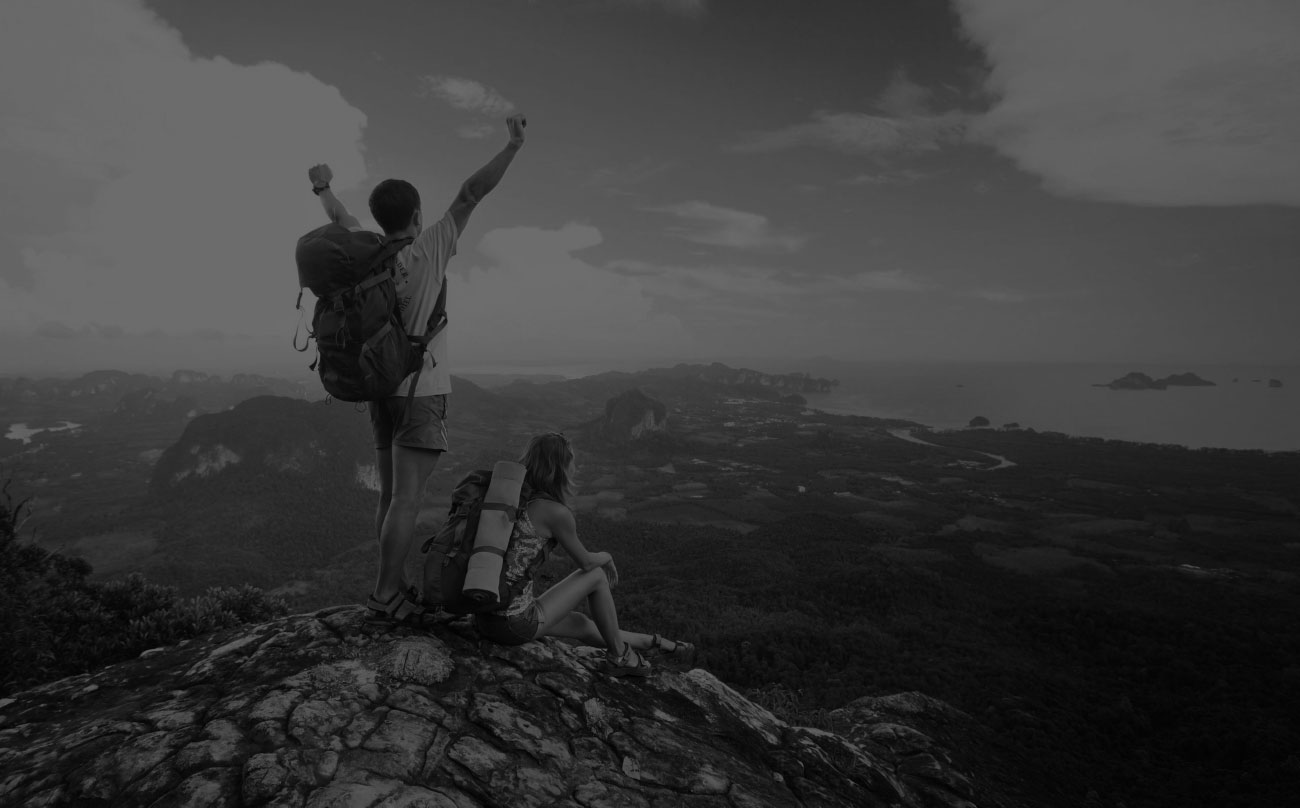
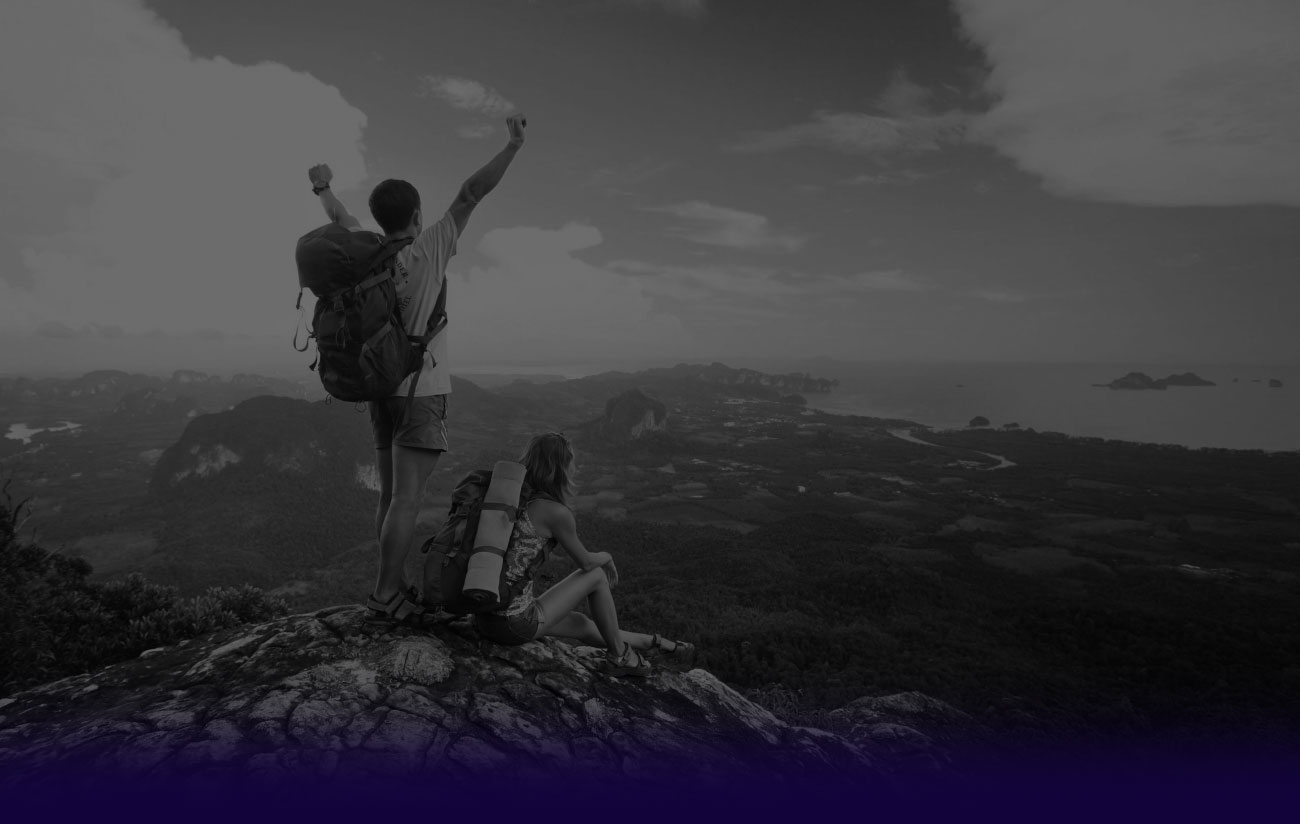
Ajustes
Campos llenos de texto.

diff --git a/frontend/css/styles.css b/frontend/css/styles.css
@@ -1,5 +1,5 @@
 /*!
- * Compliled at: 2015-08-02 07:16:24 -0500
+ * Compliled at: 2015-08-02 12:17:12 -0500
  */
 @import url("font-awesome.css");
 @import url("http://fonts.googleapis.com/css?family=Varela+Round");
@@ -31,17 +31,20 @@ strong { font-weight: 700; color: black; }
 header { padding: 20px 0; color: #00FFCC; }
 header.dark { background: #12043A; }
 header h1 { width: 250px; height: 75px; float: left; }
-header nav { float: right; }
+header nav { float: right; text-transform: uppercase; }
 header nav a { display: block; float: left; margin-left: 40px; line-height: 75px; }
 header nav a.active { color: white; }
 
-footer { background: #12043A; color: white; font-size: 0.8em; text-align: center; padding: 20px 0; margin-top: 60px; line-height: 1.3em; }
+button:focus { outline: none; }
+button:hover { color: white !important; cursor: pointer; }
+
+footer { background: #12043A; color: white; font-size: 0.8em; text-align: center; padding: 20px 0; margin-top: 60px; line-height: 1.3em; width: 100%; position: static; bottom: 0; }
 footer span:after { content: " / "; }
 footer span:last-of-type:after { content: " "; }
 
 .picture { background: url(img/bg-landing.jpg) top center no-repeat; background-size: 100%; }
 
-.picture-home { background: url(img/bg-home.jpg) top center no-repeat; background-size: cover; }
+.picture-home { background: #12043A url(img/bg-home.jpg) top center no-repeat; background-size: cover; }
 
 .container { max-width: 1000px; margin: 0 auto; }
 
@@ -84,13 +87,15 @@ h3 { text-align: center; font-size: 1em; padding: 40px 0 20px 0; }
 .item:hover { background: #00FFCC; }
 
 .add-card-screen, .add-founds-screen { min-height: 300px; }
+.add-card-screen .instructions, .add-founds-screen .instructions { overflow: hidden; *zoom: 1; }
+.add-card-screen .instructions h4, .add-founds-screen .instructions h4 { text-align: left; font-size: 1.3em; float: left; width: auto; }
+.add-card-screen .instructions select, .add-founds-screen .instructions select { -moz-transform: scale(1.8, 1.8); -ms-transform: scale(1.8, 1.8); -webkit-transform: scale(1.8, 1.8); transform: scale(1.8, 1.8); float: left; }
 .add-card-screen .card, .add-founds-screen .card { width: 30%; float: left; background: #FF0074; margin-top: 40px; }
 .add-card-screen .card img, .add-founds-screen .card img { display: block; margin: 0 auto; }
 .add-card-screen .card p, .add-founds-screen .card p { background: white; padding: 20px 0; font-weight: bold; text-align: center; font-size: 1.2em; }
 .add-card-screen form, .add-founds-screen form { width: 70%; float: left; }
-.add-card-screen form .master-card-button, .add-founds-screen form .master-card-button { width: 45%; float: left; margin: 32px 0; -moz-box-sizing: border-box; -webkit-box-sizing: border-box; box-sizing: border-box; padding: 0 40px; }
-.add-card-screen form button, .add-founds-screen form button { padding: 10px; font-size: 1em; }
-.add-card-screen form button:focus, .add-founds-screen form button:focus { outline: none; }
+.add-card-screen form .master-card-button, .add-founds-screen form .master-card-button { width: 80%; float: left; margin: 32px 0; -moz-box-sizing: border-box; -webkit-box-sizing: border-box; box-sizing: border-box; padding: 0 40px; clear: both; text-align: center; }
+.add-card-screen form .master-card-button button, .add-founds-screen form .master-card-button button { padding: 10px; display: inline-block; font-size: 1em; }
 
 .add-founds-screen .card { position: relative; margin-right: 3%; -moz-transition: background 0.3s; -o-transition: background 0.3s; -webkit-transition: background 0.3s; transition: background 0.3s; }
 .add-founds-screen .card img, .add-founds-screen .card .button-add { -moz-transition: opacity 0.3s; -o-transition: opacity 0.3s; -webkit-transition: opacity 0.3s; transition: opacity 0.3s; }

diff --git a/frontend/edit-profile.html b/frontend/edit-profile.html
@@ -17,42 +17,41 @@
     <!-- Google Analytics-->
     <!-- Open Graph-->
   </head>
-  <body>
-    <header class="dark">
+  <body class="picture">
+    <header>
       <div class="container"><a href="index.html">
           <h1 class="logo">TurboPass</h1></a>
-        <nav><a href="login.html">Log out</a></nav>
+        <nav><a href="index.html">Home</a><a href="signup.html" class="active">Sign Up</a><a href="login.html">Log in</a></nav>
       </div>
     </header>
-    <div class="title-line">
-      <div class="container">
-        <h2>Add founds to my card</h2>
-      </div>
+    <div class="title">
+      <h2>Edit my profile</h2>
     </div>
-    <div class="container add-card-screen">
-      <div class="card"><img src="img/card-01.png" alt="New Card">
-        <p class="balance">$50.00</p>
-      </div>
+    <div class="content sign-up-screen">
+      <h3>Personal Information</h3>
       <form id="" method="" action="">
-          <label>Country
-            <input type="text" value="">
+          <label>First name
+            <input type="text" value="Darth">
           </label>
-          <label>State
-            <input type="text" value="undefined">
+          <label>Last name
+            <input type="text" value="Vader">
           </label>
-          <label>Kind of card
-            <input type="text" value="undefined">
+          <label>Email
+            <input type="email" value="darth.vader@outlook.com">
           </label>
-          <label>Card number
-            <input type="number" value="undefined">
+          <label>Password
+            <input type="password" value="1amYourfath3r">
           </label>
-          <label>Amount to add
-            <input type="text" value="undefined">
+        <label class="third"> <span>Date of birth</span>
+          <input type="number" placeholder="dd" value="30">/ 
+          <input type="number" placeholder="mm" value="02">/ 
+          <input type="number" placeholder="yyyy" value="1958">
+        </label>
+          <label>Phone number
+            <input type="text" value="555 666 4444">
           </label>
-        <div class="master-card-button">
-          <!-- Aquí debería ir el botón del pago, que abre el lightbox-->
-          <button type="button">Pay Amount</button>
-        </div>
+        <label class="full">By continuing, you accept the TurboPass <a href="#">Terms and Conditions. </a></label>
+        <div class="call-to-action"><a href="welcome.html" class="button">Save</a></div>
       </form>
     </div>
     <footer>

diff --git a/frontend/sass/styles.sass b/frontend/sass/styles.sass
@@ -39,6 +39,7 @@ header
 
 	nav
 		float: right
+		text-transform: uppercase
 		a
 			display: block
 			float: left
@@ -47,6 +48,12 @@ header
 
 			&.active
 				color: white
+button
+	&:focus
+		outline: none
+	&:hover
+		color: white !important
+		cursor: pointer
 
 footer
 	background: $blue
@@ -56,6 +63,9 @@ footer
 	padding: $spacer 0
 	margin-top: $spacer*3
 	line-height: 1.3em
+	width: 100%
+	position: static
+	bottom: 0
 
 	span
 		&:after
@@ -70,7 +80,7 @@ footer
 	background-size: 100%
 
 .picture-home
-	background: url(img/bg-home.jpg) top center no-repeat
+	background: $blue url(img/bg-home.jpg) top center no-repeat
 	background-size: cover
 
 .container
@@ -193,6 +203,7 @@ h3
 			padding-top: $spacer
 			clear: both
 
+
 		.button, button
 			background: $blue
 			color: $cyan
@@ -246,6 +257,20 @@ h3
 .add-card-screen, .add-founds-screen
 	min-height: 300px
 
+	.instructions
+		+clearfix
+
+		h4
+			text-align: left
+			font-size: 1.3em
+			float: left
+			width: auto
+
+		select
+			+scale(1.8, 1.8)
+			float: left
+
+
 	.card
 		width: 30%
 		float: left
@@ -266,16 +291,18 @@ h3
 		width: 70%
 		float: left
 		.master-card-button
-			width: 45%
+			width: 80%
 			float: left
 			margin: 32px 0
 			+box-sizing(border-box)
 			padding: 0 $spacer*2
-		button
-			padding: $spacer/2
-			font-size: 1em
-			&:focus
-				outline: none
+			clear: both
+			text-align: center
+			button
+				padding: $spacer/2
+				display: inline-block
+				font-size: 1em
+
 
 .add-founds-screen
 	.card

diff --git a/frontend/my-cards.html b/frontend/my-cards.html
@@ -29,13 +29,23 @@
         <h2>My cards</h2>
       </div>
     </div>
-    <div class="container add-founds-screen"><a href="add-founds.html" class="card"><img src="img/card-01.png" alt="New Card">
-        <p class="balance">$50.00</p>
+    <div class="container add-founds-screen">
+      <div class="instructions">
+        <h4>1. Select the amount to transfer:</h4>
+        <select>
+          <option value="20" label="$20.00"></option>
+          <option value="30" label="$30.00"></option>
+          <option value="50" label="$50.00"></option>
+          <option value="100" label="$100.00"></option>
+        </select>
+      </div><a href="add-founds.html" class="card"><img src="img/card-01.png" alt="New Card">
+        <p class="balance">$00.00</p>
         <div class="button-add"><span>Add founds</span></div></a><a href="add-founds.html" class="card"><img src="img/card-02.png" alt="New Card">
         <p class="balance">$70.00</p>
         <div class="button-add"><span>Add founds</span></div></a><a href="add-founds.html" class="card"><img src="img/card-03.png" alt="New Card">
         <p class="balance">$20.00</p>
-        <div class="button-add"><span>Add founds</span></div></a></div>
+        <div class="button-add"><span>Add founds</span></div></a>
+    </div>
     <footer>
       <p>Handcrafted with love at #MastersOfCode, Mexico City.</p>
       <p> <span>Ramón Pazos</span><span>Jasiel Jimenez</span><span>Violeta Rosales</span></p>

diff --git a/frontend/signup.html b/frontend/signup.html
@@ -31,24 +31,24 @@
       <h3>Personal Information</h3>
       <form id="" method="" action="">
           <label>First name
-            <input type="text">
+            <input type="text" value="Darth">
           </label>
           <label>Last name
-            <input type="text">
+            <input type="text" value="Vader">
           </label>
           <label>Email
-            <input type="email">
+            <input type="email" value="darth.vader@outlook.com">
           </label>
           <label>Password
-            <input type="password">
+            <input type="password" value="1amYourfath3r">
           </label>
         <label class="third"> <span>Date of birth</span>
-          <input type="number" placeholder="dd" min="1" max="31">/ 
-          <input type="number" placeholder="mm" min="1" max="12">/ 
-          <input type="number" placeholder="yyyy" min="1" max="2015">
+          <input type="number" placeholder="dd" value="30">/ 
+          <input type="number" placeholder="mm" value="02">/ 
+          <input type="number" placeholder="yyyy" value="1958">
         </label>
           <label>Phone number
-            <input type="number">
+            <input type="text" value="555 666 4444">
           </label>
         <label class="full">By continuing, you accept the TurboPass <a href="#">Terms and Conditions. </a></label>
         <div class="call-to-action"><a href="welcome.html" class="button">Sign Up</a></div>

diff --git a/frontend/add-card.html b/frontend/add-card.html
@@ -33,25 +33,22 @@
       <div class="card"><img src="img/card-01.png" alt="New Card">
         <p class="balance">$0.00</p>
       </div>
-      <form id="" method="" action="">
+      <form id="" method="" action="my-cards.html">
           <label>Country
-            <input type="text">
+            <input type="text" value="Tatooine">
           </label>
           <label>State
-            <input type="text">
+            <input type="text" value="Bestine">
           </label>
           <label>Kind of card
-            <input type="text">
+            <input type="text" value="Millenial Falcon Card">
           </label>
           <label>Card number
-            <input type="number">
-          </label>
-          <label>Starting amount
-            <input type="text">
+            <input type="text" value="666 666 666">
           </label>
         <div class="master-card-button">
-          <!-- Aquí debería ir el botón del pago, que abre el lightbox-->
-          <button type="button">Add Card</button>
+          <!-- Writes DB-->
+          <button type="submit">Continue</button>
         </div>
       </form>
     </div>

diff --git a/frontend/login.html b/frontend/login.html
@@ -25,20 +25,18 @@
       </div>
     </header>
     <div class="title">
-      <h2>Login</h2>
+      <h2>Log in</h2>
     </div>
     <div class="content sign-up-screen">
       <h3>Account information</h3>
       <form id="" method="" action="">
           <label>Email
-            <input type="email">
+            <input type="email" value="undefined">
           </label>
           <label>Password
-            <input type="password">
+            <input type="password" value="undefined">
           </label>
-        <div class="call-to-action">
-          <button type="submit">Sign Up</button>
-        </div>
+        <div class="call-to-action"><a href="welcome.html" class="button">Go!</a></div>
       </form>
     </div>
     <footer>

diff --git a/frontend/welcome.html b/frontend/welcome.html
@@ -29,7 +29,7 @@
         <h2>Welcome Darth Vader!</h2>
       </div>
     </div>
-    <div class="container"><a href="#" class="item"><i class="fa fa-user"></i>
+    <div class="container"><a href="edit-profile.html" class="item"><i class="fa fa-user"></i>
         <h3>Edit my profile</h3></a><a href="add-card.html" class="item"><i class="fa fa-credit-card"></i>
         <h3>Add a card</h3></a><a href="my-cards.html" class="item"><i class="fa fa-money"></i>
         <h3>Add founds to my cards</h3></a><a href="#" class="item"><i class="fa fa-sign-out"></i>

diff --git a/frontend/js/scripts.js b/frontend/js/scripts.js
@@ -1,0 +1,18 @@
+//
+// Functions
+// -------------------------------------------
+
+function init() {
+
+	// Footer position
+	if ( $('body').height() < $(window).height() ) {
+		$('footer').css('position', 'absolute');
+	};
+	
+
+}
+
+//
+// RUN!
+// -------------------------------------------
+$(document).ready(function() { init(); });
